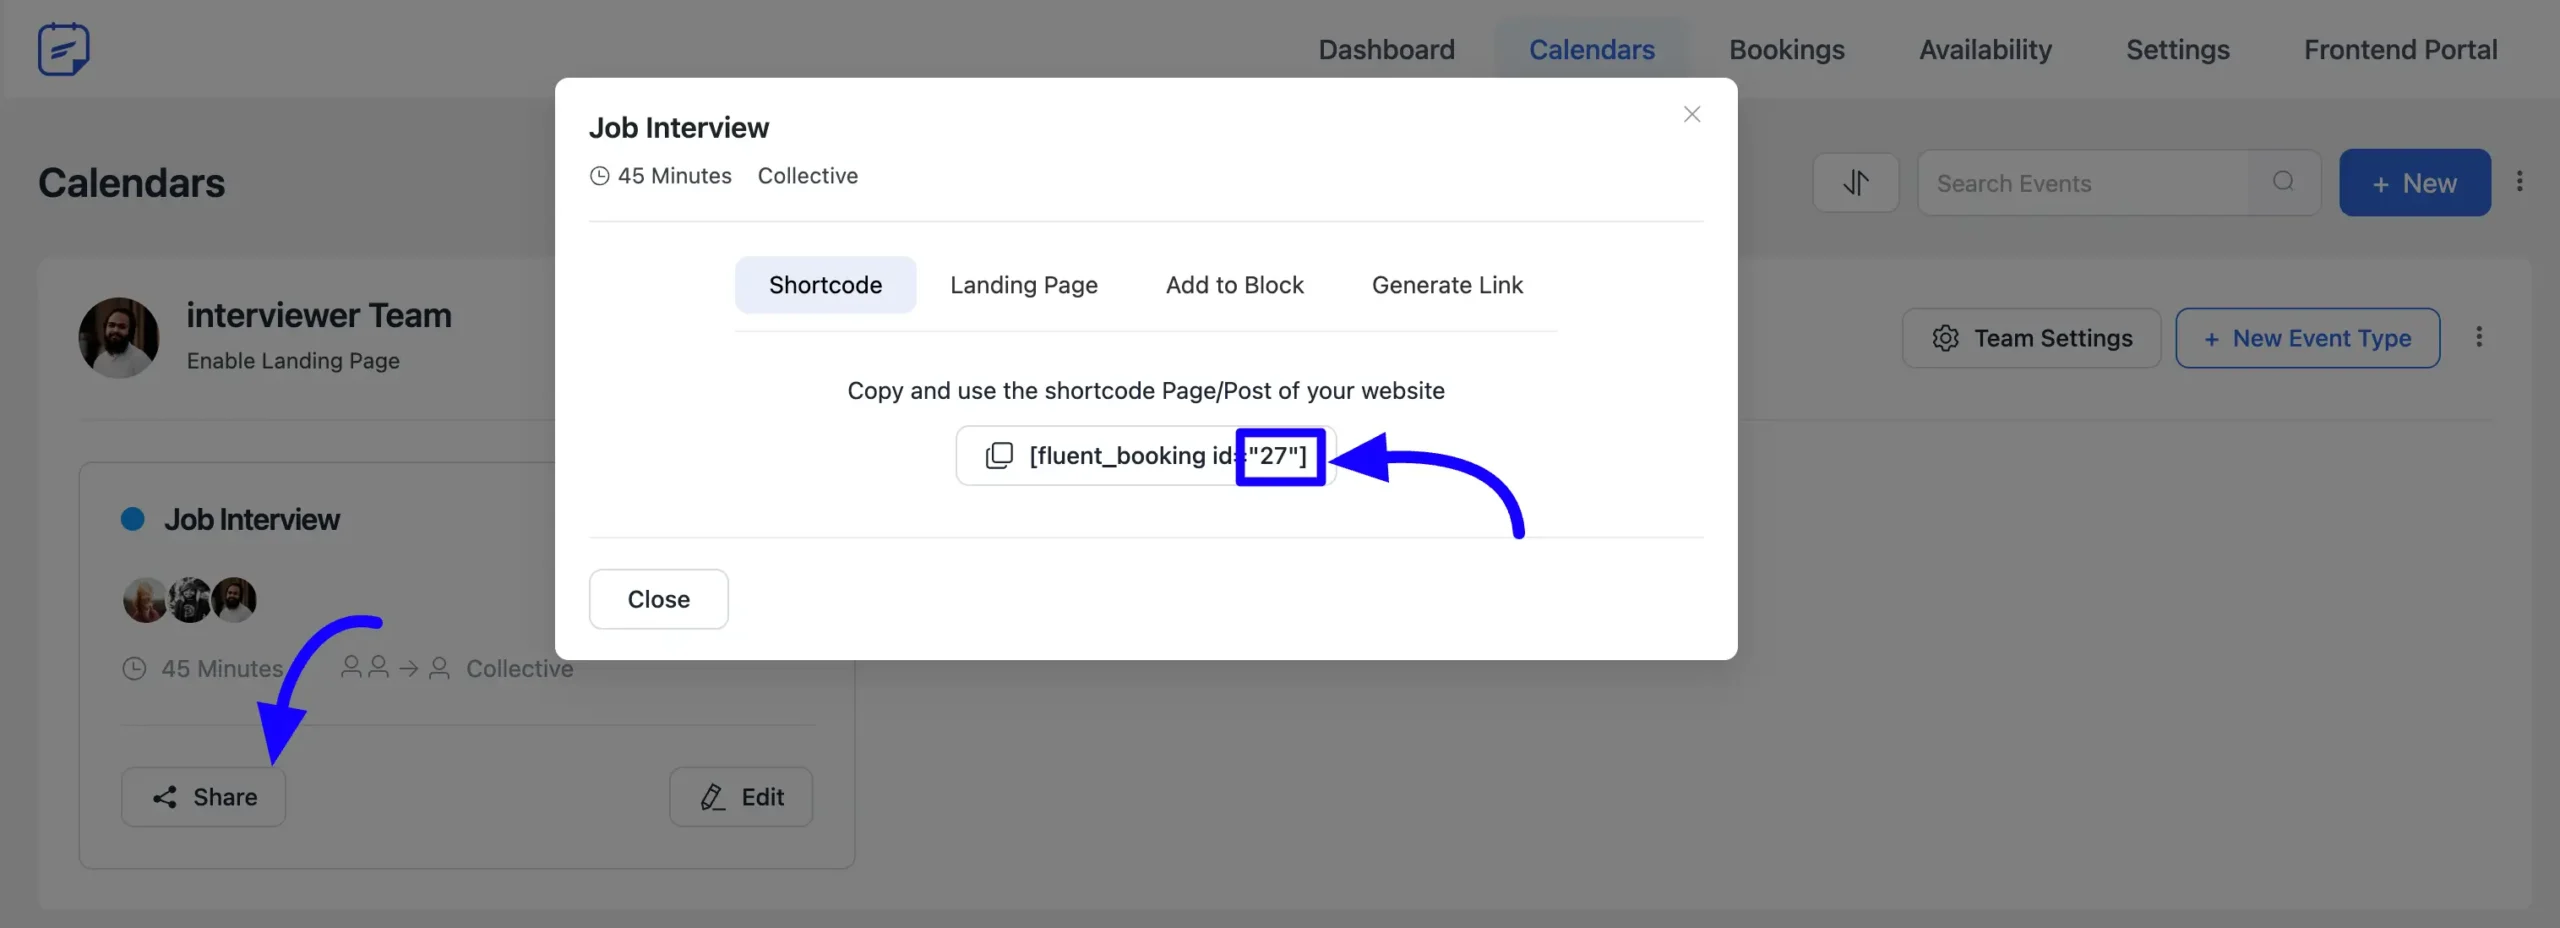
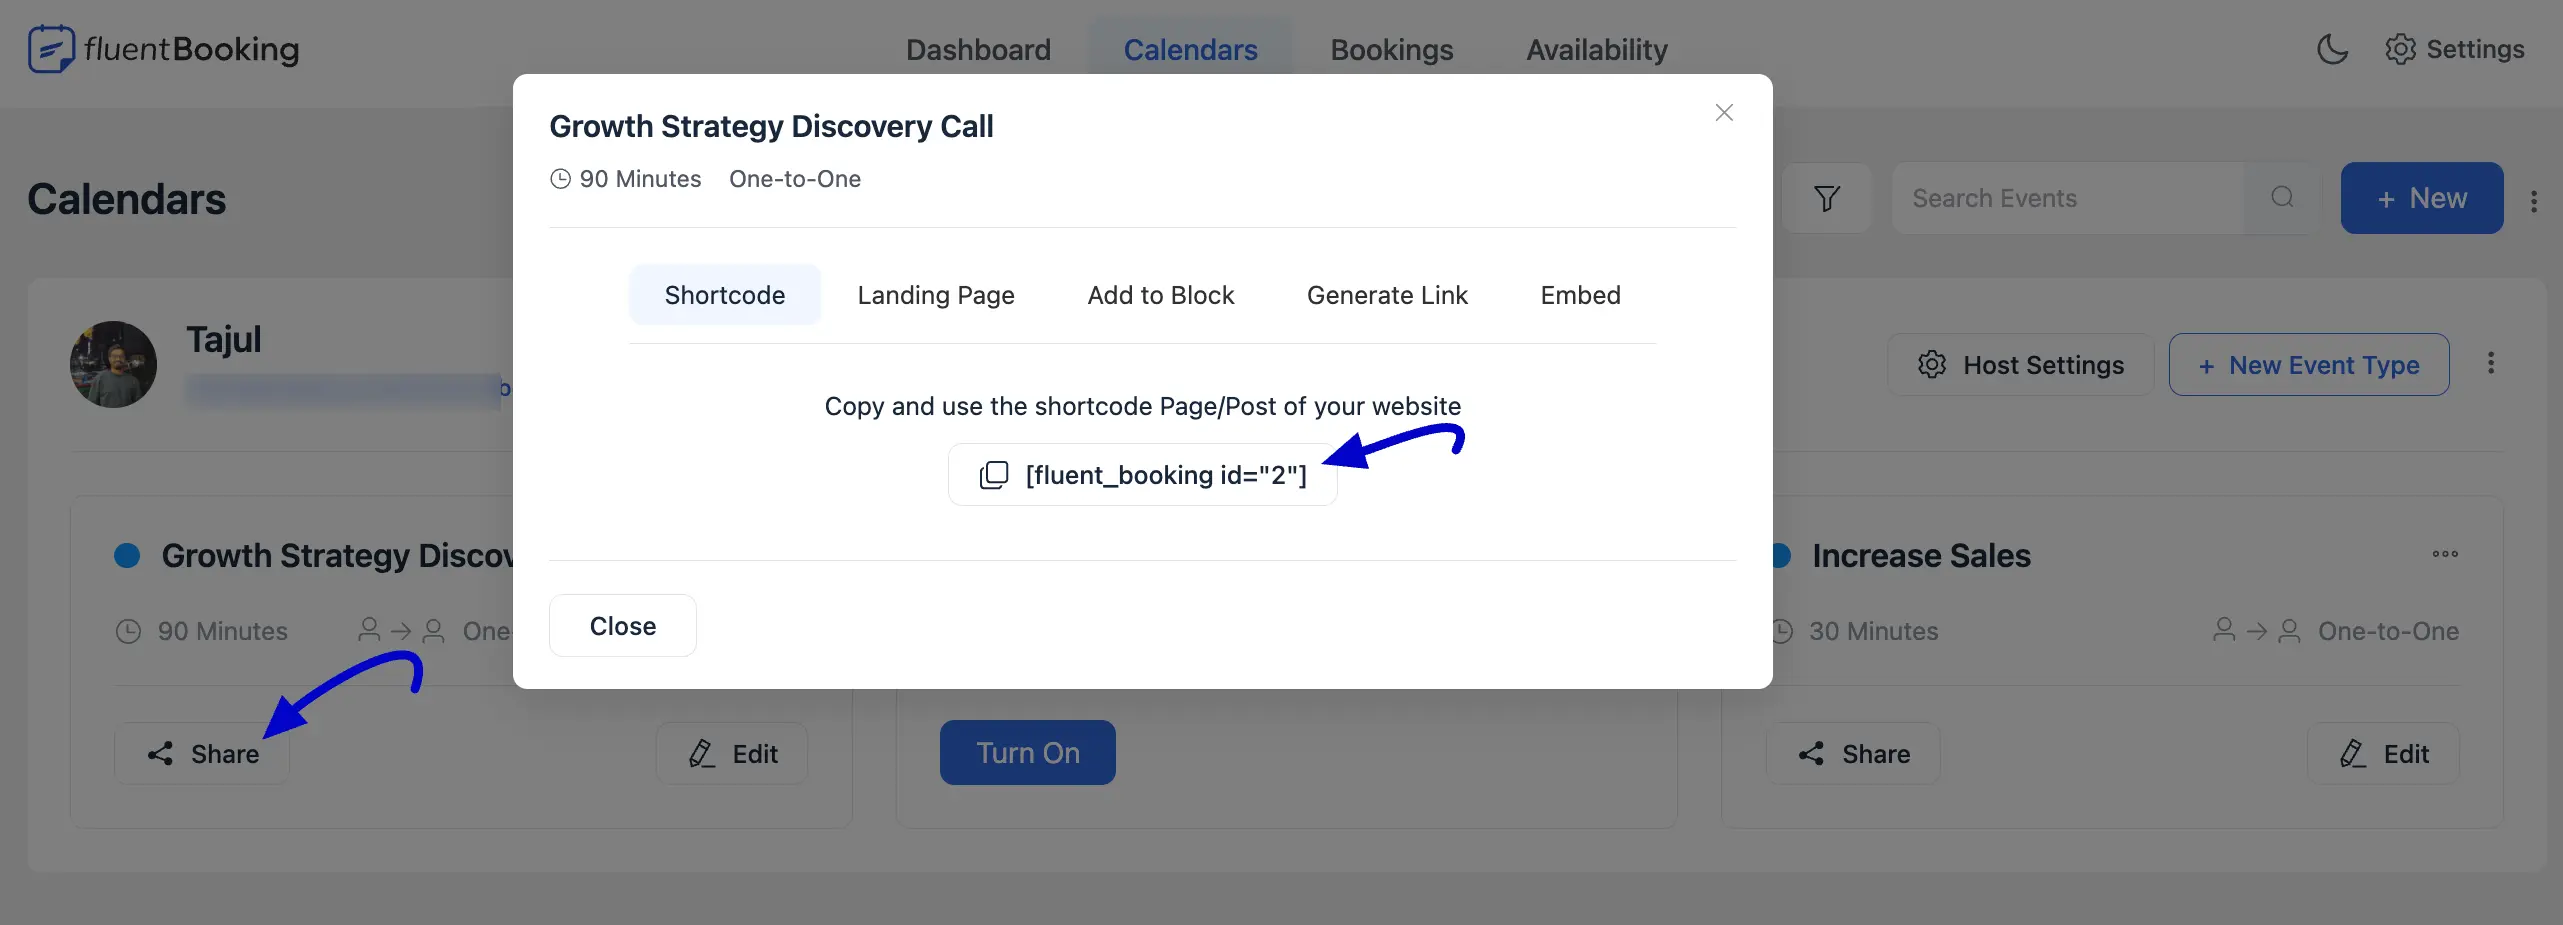
FluentBooking Shortcodes doc update

diff --git a/docs/.vitepress/config.js b/docs/.vitepress/config.js
@@ -137,6 +137,7 @@ const sidebar = [
 
 export default defineConfig({
   base: '/',
+  cleanUrls: true,
   title: 'FluentBooking',
   description: 'The Ultimate WordPress Solution for Appointment Booking',
   ignoreDeadLinks: true,

diff --git a/docs/miscellaneous/fluentbooking-shortcodes.md b/docs/miscellaneous/fluentbooking-shortcodes.md
@@ -33,6 +33,24 @@ These are the available shortcodes:
 - `[fluent_booking_lists]` — Display bookings for logged-in users
 - `[fluent_booking_panel]` — Embed the booking frontend panel
 
+Use the following shortcodes exactly as needed:
+
+```
+[fluent_booking id="123" theme=dark disable_author=yes]
+```
+```
+[fluent_booking_calendar calendar_id="38" event_ids="68, 79" hide_info=true title="" description="" logo=""]
+```
+```
+[fluent_booking_team event_ids="68, 139, 158, 131, 149" title="", description="",logo_url=""]
+```
+```
+[fluent_booking_lists title="", filter="show", pagination="show" period="upcoming" per_page=10 no_bookings="No bookings found"]
+```
+```
+[fluent_booking_panel]
+```
+
 
 ### Adding a Booking Event
 

diff --git a/docs/getting-started/install-activate-and-update-fluentbooking.md b/docs/getting-started/install-activate-and-update-fluentbooking.md
@@ -28,7 +28,7 @@ Now, click the **Install** button and the **FluentBooking** plugin will be succe
 Finally, to activate, click on the **Activate** button.
 
 
-But, you need the **License key** to activate all the **FluentBooking** features successfully. To learn how to activate the license key, read this [Documentation](/getting-started/how-to-install-activate-fluent-booking.html#activating-the-license-key)
+But, you need the **License key** to activate all the **FluentBooking** features successfully. To learn how to activate the license key, read this [Documentation](/getting-started/how-to-install-activate-fluent-booking#activating-the-license-key)
 
 
 ![Active button](/images/getting-started/install-activate-and-update-fluentbooking/Active-button-scaled.webp)

diff --git a/docs/getting-started/introduction-to-fluentbooking.md b/docs/getting-started/introduction-to-fluentbooking.md
@@ -9,7 +9,7 @@ FluentBooking offers the perfect solution for effortless and hassle-free booking
 
 ## Schedule Anything, Anywhere
 
-FluentBooking handles various scheduling needs beautifully, whether you are a solo consultant or a large team. You can create multiple calendars per user with unique public slugs. Supported event types include **One-to-One sessions**, **Group events**, and **team-based scheduling**, such as **[Round Robin](/host-events/how-to-set-round-robin-bookings.html#set-round-robin-bookings)** and **[Collective bookings](/host-events/collective-booking-event.html#create-collective-booking)**.
+FluentBooking handles various scheduling needs beautifully, whether you are a solo consultant or a large team. You can create multiple calendars per user with unique public slugs. Supported event types include **One-to-One sessions**, **Group events**, and **team-based scheduling**, such as **[Round Robin](/host-events/how-to-set-round-robin-bookings#set-round-robin-bookings)** and **[Collective bookings](/host-events/collective-booking-event#create-collective-booking)**.
 
 ### Total Control Over Your Availability
 

diff --git a/docs/payments/offline-payment-for-booking.md b/docs/payments/offline-payment-for-booking.md
@@ -11,7 +11,7 @@ You can let your users choose offline payment in FluentBooking. With this option
 
 ## Enable Offline Payment
 
-> Before proceeding, make sure the main [Global Payment Module](/payments/how-to-take-payment-in-bookings.html#enable-the-global-payment-module) is enabled from **Payment Setting**.
+> Before proceeding, make sure the main [Global Payment Module](/payments/how-to-take-payment-in-bookings#enable-the-global-payment-module) is enabled from **Payment Setting**.
 
 Go to the WordPress admin dashboard, navigate to **FluentBooking > Settings**, and select **Offline Payment**. Now, check on the **Enable Offline Payment for Booking Payment** to enable the Offline Payment options.
 